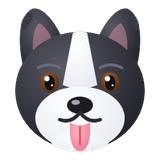
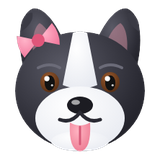
Papa rajeuni, Winter au féminin (avec un nœud rose)
Claude-Session: https://claude.ai/code/session_011a5jnnGvVNUtzekornyhss

Changed region(s): [[0.0938, 0.125, 0.375, 0.375]]

diff --git a/js/famille.js b/js/famille.js
@@ -37,7 +37,7 @@ const FAMILLE = {
   },
   papa: {
     nom: "Papa",                                  // ✏ son prénom
-    avatar: { peau: "#eebd98", cheveux: "#8f8f8f", coupe: "degarni", frange: false, barbe: "courte", lunettes: "carrees", haut: "#5b7fb5" },
+    avatar: { peau: "#eebd98", cheveux: "#4a3020", coupe: "court", frange: false, barbe: "courte", lunettes: null, haut: "#5b7fb5" },
     recette: "tarte",
     bonjour: "Bonjour madame la cheffe ! Une tarte aux fraises, et pas de chichis.",
     merci: "Encore meilleure que celle de la boulangerie !",
@@ -53,7 +53,7 @@ const FAMILLE = {
   },
 };
 
-// Les animaux (illustrations dans assets/img : winter.png, tsuki.png, suguru.png)
+// Les animaux (illustrations dans assets/img : winter.png, tsuki.png, suguru.png) — Winter est une chienne
 const ANIMAUX_FAMILLE = {
   winter: {
     nom: "Winter", img: "winter",
@@ -100,7 +100,7 @@ const SCENES = {
     { qui: "soeur", texte: "Coucou Maman ! Il paraît que tu as ouvert une pâtisserie ? J'arrive !" },
     { qui: "winter", son: "wouf", texte: "WOUF ! WOUF ! WOUF !" },
     { qui: null, img: "winter_balle", texte: "Winter vient d'entrer dans la cuisine. À 3000 ampères. Avec sa balle." },
-    { qui: "soeur", texte: "S'il te ramène sa balle, touche-la pour la lancer… sinon il ne te lâchera pas !" },
+    { qui: "soeur", texte: "Si elle te ramène sa balle, touche-la pour la lancer… sinon elle ne te lâchera pas !" },
   ],
   jour3: [
     { qui: "papa", texte: "Bonjour madame la cheffe ! On m'a dit que la tarte aux fraises était à tomber." },

diff --git a/js/avatars.js b/js/avatars.js
@@ -54,7 +54,7 @@ function dessinerAvatar(a, epaules = true) {
   // ---- barbe ----
   if (a.barbe === "courte") {
     forme(() => { c.moveTo(54, 132); c.quadraticCurveTo(58, 214, 128, 216); c.quadraticCurveTo(198, 214, 202, 132); c.quadraticCurveTo(196, 186, 150, 180); c.quadraticCurveTo(128, 172, 106, 180); c.quadraticCurveTo(60, 186, 54, 132); c.closePath(); }, cheveux);
-    forme(() => c.ellipse(128, 186, 20, 9, 0, 0, Math.PI * 2), melanger(peau, "#8a3b3b", .3));
+
   }
   if (a.barbe === "courte" || a.barbe === "moustache") forme(() => { c.moveTo(100, 168); c.quadraticCurveTo(128, 150, 156, 168); c.quadraticCurveTo(128, 162, 100, 168); c.closePath(); }, cheveux);
 
@@ -69,7 +69,10 @@ function dessinerAvatar(a, epaules = true) {
   for (const x of [98, 158]) { c.beginPath(); c.moveTo(x - 14, 116); c.quadraticCurveTo(x, 108, x + 14, 116); c.stroke(); }
   c.strokeStyle = peauF; c.lineWidth = 4;
   c.beginPath(); c.moveTo(124, 150); c.quadraticCurveTo(128, 156, 133, 151); c.stroke();
-  if (a.barbe !== "courte") {
+  if (a.barbe === "courte") {   // sourire qui se voit dans la barbe
+    forme(() => { c.moveTo(108, 176); c.quadraticCurveTo(128, 198, 148, 176); c.quadraticCurveTo(128, 186, 108, 176); c.closePath(); }, "#7a3434");
+    forme(() => { c.moveTo(112, 177); c.quadraticCurveTo(128, 184, 144, 177); c.quadraticCurveTo(128, 182, 112, 177); c.closePath(); }, "#ffffff");
+  } else {
     c.strokeStyle = "#8a3b3b"; c.lineWidth = 5;
     c.beginPath(); c.moveTo(108, 172); c.quadraticCurveTo(128, 190, 148, 172); c.stroke();
   }

diff --git a/js/cuisine.js b/js/cuisine.js
@@ -747,7 +747,7 @@ const Cuisine = {
       case "attend":
         w.wouf -= dt;
         if (w.wouf <= 0) { w.wouf = 2.6; Son.wouf(); this.effets.push({ type: "texte", txt: "Wouf !", x: w.x, y: w.y - .55, vie: .9, couleur: "#5b3a29", piece: false }); }
-        // il suit la cheffe partout avec sa balle
+        // elle suit la cheffe partout avec sa balle
         if (w.t > 1 && Math.hypot(j.x - w.x, j.y - w.y) > 2.6) {
           const p = this.caseLibrePres(j.x, j.y); w.cx = p.x; w.cy = p.y; w.porte = true; w.balle = null; w.etat = "retour";
         }

diff --git a/assets/sources/generer_svg.py b/assets/sources/generer_svg.py
@@ -260,7 +260,8 @@ def oeil(x, y, rx, ry, iris, pupille_rx=None, pupille_ry=None):
 
 
 def winter(balle=False):
-    d = NOIR + BLANC + ROSE + rad("brun", (0, "#9a5a2e"), (1, "#4e2a12"), cx=.4, cy=.3, r=.8)
+    d = (NOIR + BLANC + ROSE + rad("brun", (0, "#9a5a2e"), (1, "#4e2a12"), cx=.4, cy=.3, r=.8)
+         + rad("noeud", (0, "#ffb3c8"), (1, "#ef6f96"), cx=.4, cy=.3, r=.9))
     c = (
         # oreilles semi-dressées (pointes cassées vers l'avant)
         '<path d="M52 118 C38 70 44 34 62 26 C78 22 98 50 108 78 Z" fill="url(#noir)"/>'
@@ -271,6 +272,9 @@ def winter(balle=False):
         '<path d="M192 96 C196 70 192 52 184 46 C174 52 166 66 162 82 Z" fill="#c98b9a" opacity=".55"/>'
         # tête
         '<ellipse cx="128" cy="140" rx="90" ry="82" fill="url(#noir)"/>'
+        # petit nœud rose (Winter est une chienne)
+        '<g transform="rotate(-20 70 70)"><path d="M70 70 L44 54 Q38 70 44 86 Z" fill="url(#noeud)"/><path d="M70 70 L96 54 Q102 70 96 86 Z" fill="url(#noeud)"/>'
+        '<circle cx="70" cy="70" r="9" fill="#e0567a"/></g>'
         # liseré blanc + museau blanc (typique du border collie)
         '<path d="M118 60 Q128 54 138 60 L152 132 Q128 142 104 132 Z" fill="url(#blanc)"/>'
         '<ellipse cx="128" cy="178" rx="62" ry="44" fill="url(#blanc)"/>'

diff --git a/README.md b/README.md
@@ -31,7 +31,7 @@ puis tout le monde le jour 5, avant une scène finale où chacun souhaite
 l'anniversaire. Les animaux ont leur propre comportement :
 
 - **Winter** débarque dans la cuisine avec sa balle (à partir du jour 2) : la
-  toucher pour la lancer, sinon il suit la cheffe partout.
+  toucher pour la lancer, sinon elle suit la cheffe partout.
 - **Tsuki** (jour 3) est si petite qu'on ne voit que ses oreilles dépasser du
   comptoir, et elle réclame à manger (miaou !).
 - **Suguru** (jour 4) fixe le mur avant de se décider à commander.
